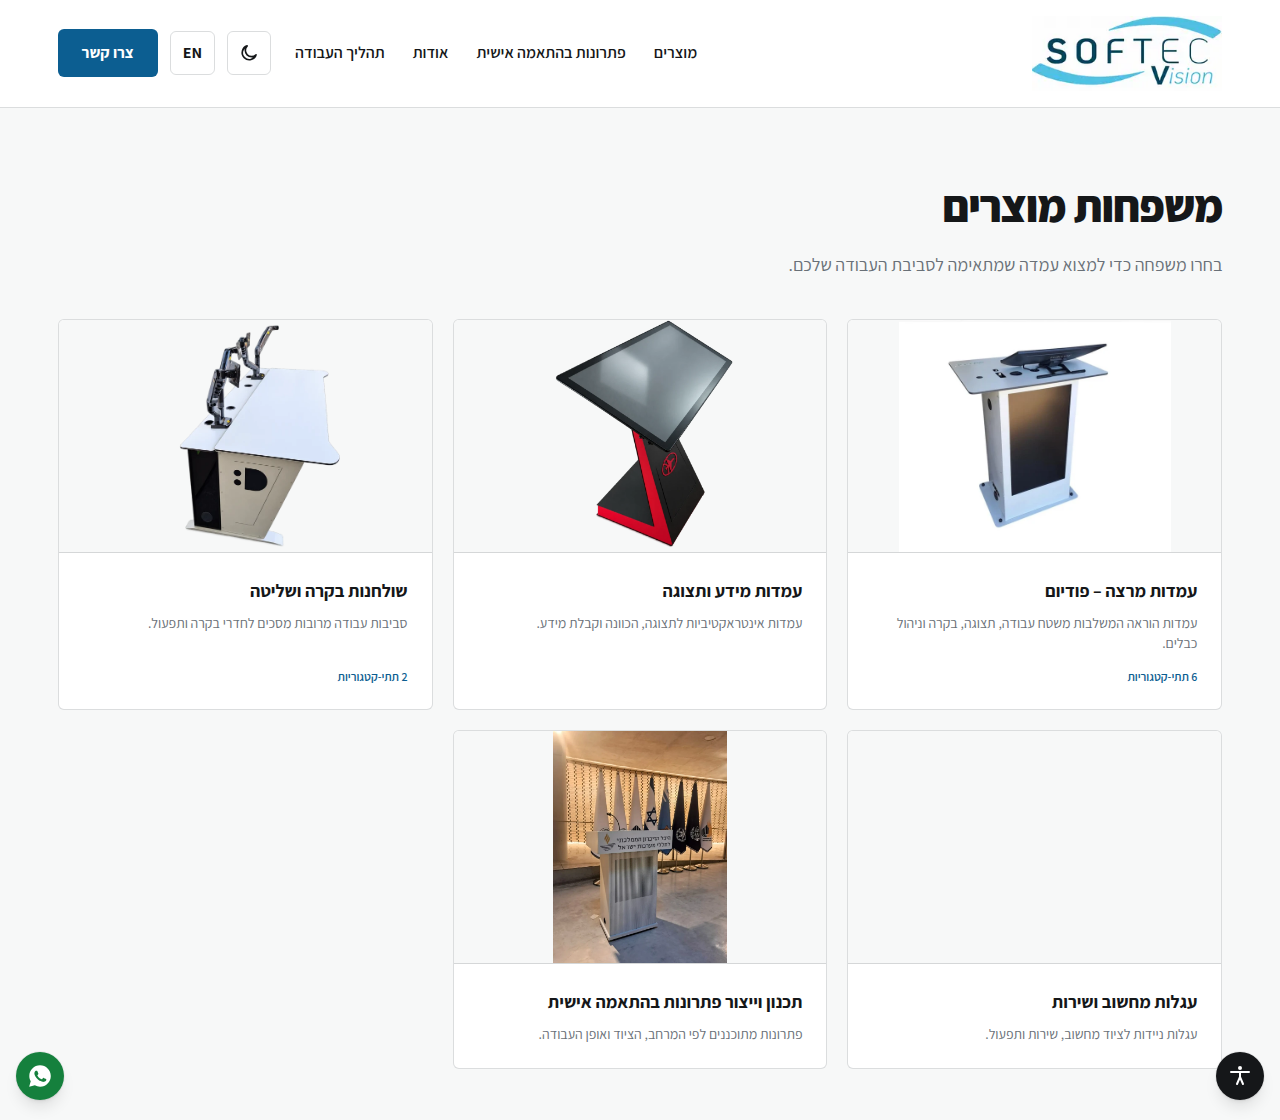
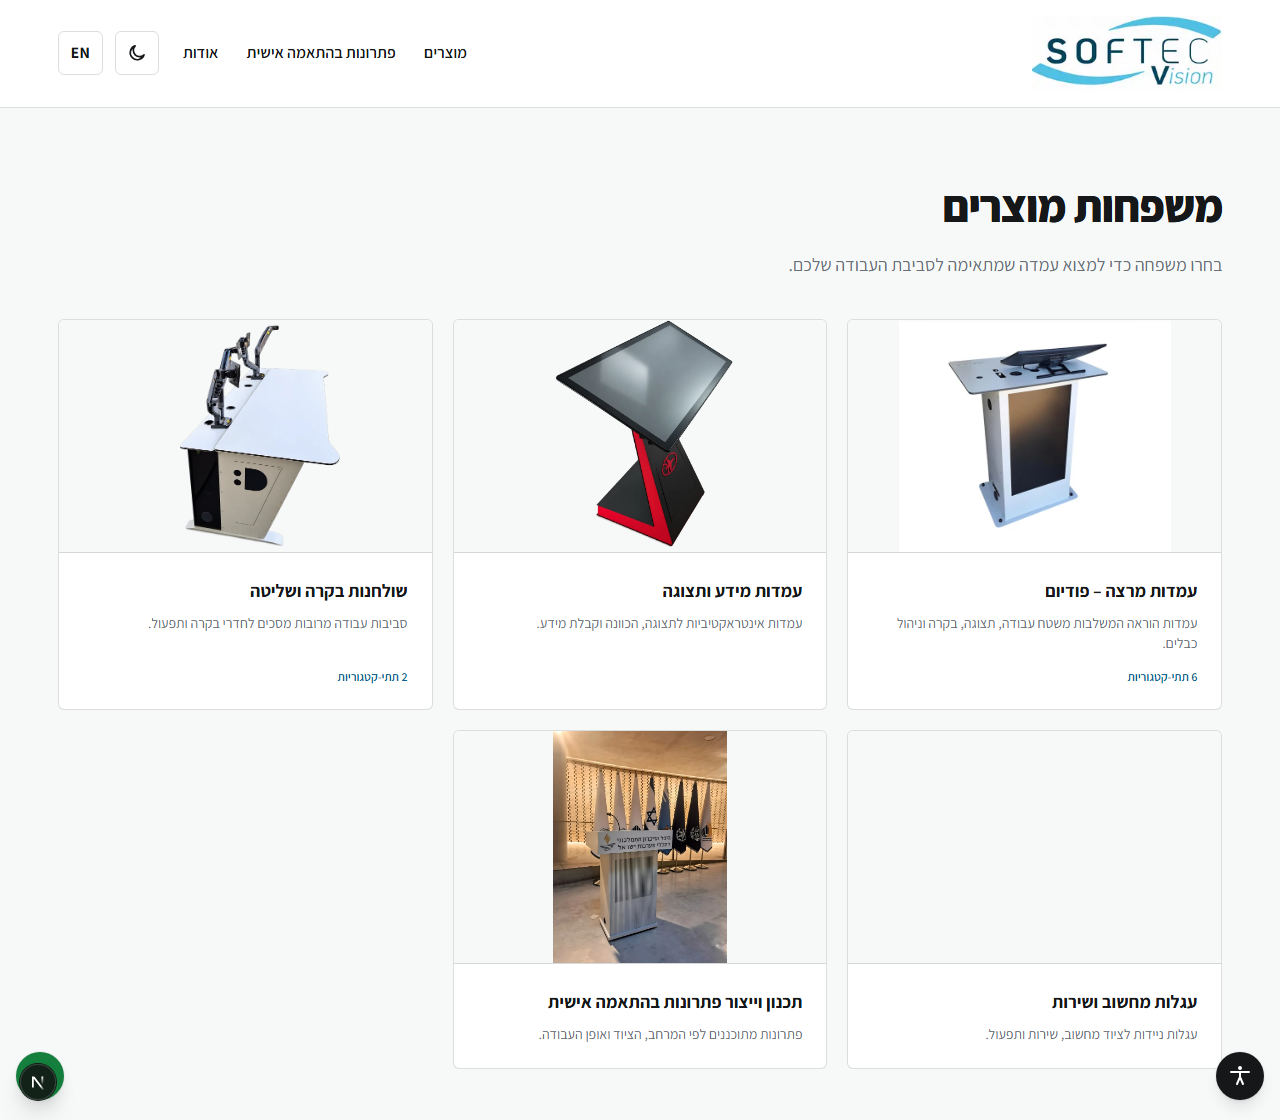
docs(web): refresh README screenshots and note React 19
Regenerate the public screenshots against the current UI (real-photo hero, the
story-driven hero line, no header Contact button) and add a colored admin
dashboard shot. Extend shoot.mjs to capture the admin dashboard when
ADMIN_EMAIL/ADMIN_PASSWORD are set (no credentials committed), and note React 19
in the stack.

Changed region(s): [[0.0312, 0.0, 0.5312, 0.0938], [0.0, 0.9375, 0.0625, 1.0]]

diff --git a/web/README.md b/web/README.md
@@ -3,8 +3,8 @@
 The production site: a bilingual (Hebrew/English) product catalog and quote-request platform for
 Softec Vision Ltd, with a Supabase-backed owner admin. Live at `softecvision.vercel.app`.
 
-**Stack:** Next.js 15 (App Router, RSC) · TypeScript · Tailwind CSS · next-intl (he/en, RTL/LTR) ·
-Supabase (Postgres + Auth + Storage) · Vercel.
+**Stack:** Next.js 15 (App Router, RSC) · React 19 · TypeScript · Tailwind CSS · next-intl (he/en,
+RTL/LTR) · Supabase (Postgres + Auth + Storage) · Vercel.
 
 ## Screenshots
 
@@ -16,6 +16,10 @@ Supabase (Postgres + Auth + Storage) · Vercel.
 | --- | --- |
 | [![Product page](docs/screenshots/product-desktop.png)](docs/screenshots/product-desktop.png) | [![Contact form](docs/screenshots/contact-desktop.png)](docs/screenshots/contact-desktop.png) |
 
+| Owner admin — dashboard |
+| --- |
+| [![Admin dashboard](docs/screenshots/admin-dashboard.png)](docs/screenshots/admin-dashboard.png) |
+
 <p align="center">
   <img src="docs/screenshots/catalog-mobile.png" alt="Catalog on mobile" width="300" />
   <br />
@@ -23,7 +27,10 @@ Supabase (Postgres + Auth + Storage) · Vercel.
 </p>
 
 Screenshots show the Hebrew (RTL) site in light mode. Regenerate them with
-`node docs/screenshots/shoot.mjs` against a local `npm run start` (see the script header).
+`node docs/screenshots/shoot.mjs` (see the script header) against a running server — a production
+`npm run start`, or the dev server via `BASE_URL=http://localhost:3000`. Set `ADMIN_EMAIL` /
+`ADMIN_PASSWORD` (a staff login) to also capture the admin dashboard; without them that shot is
+skipped and no credentials live in the repo.
 
 ## What's here
 
